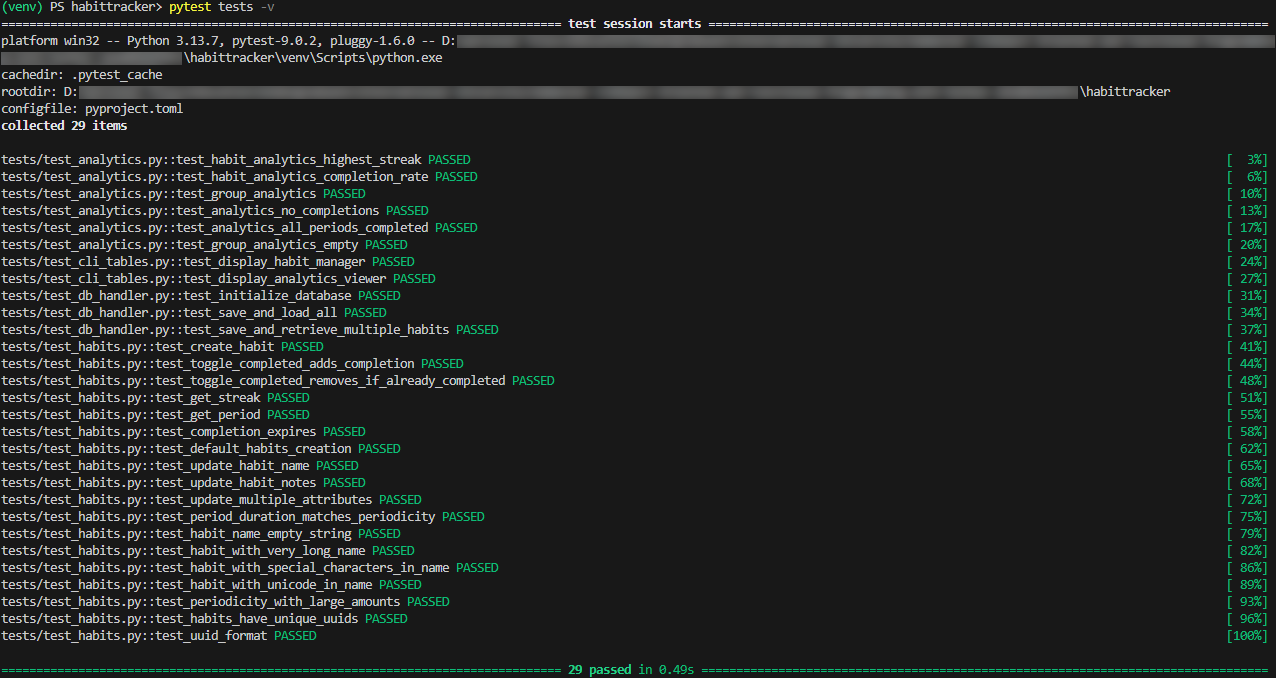
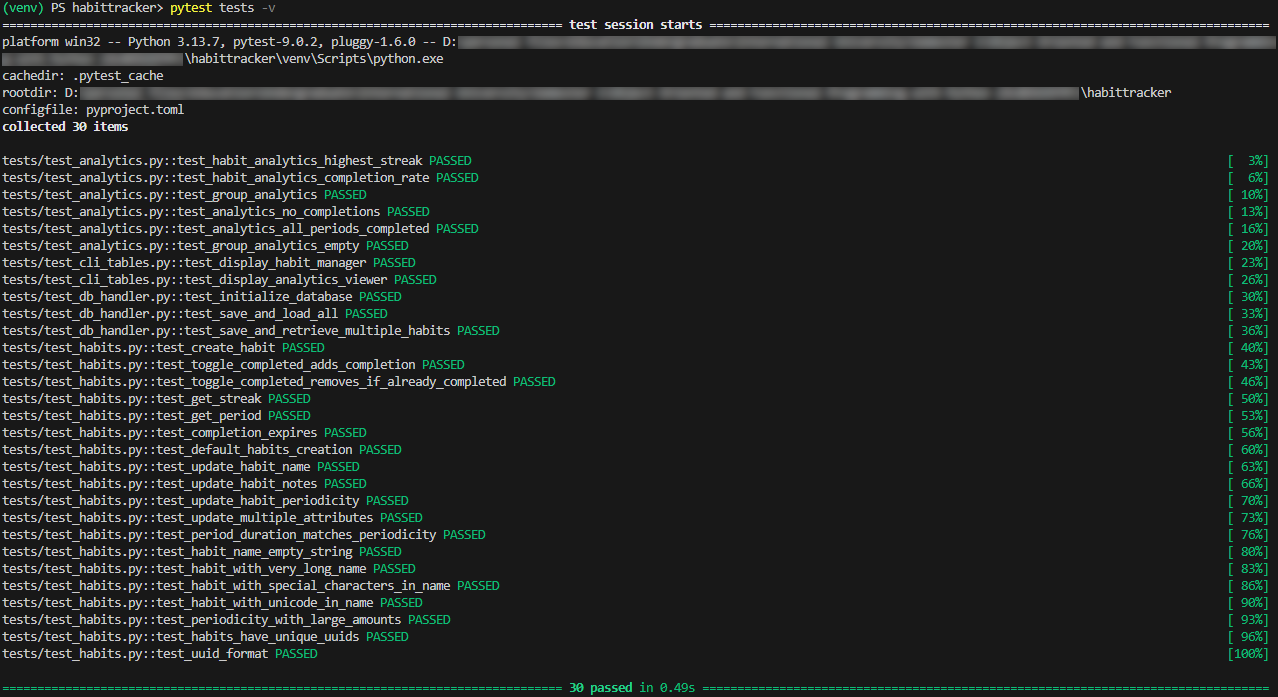
split two tests that were in one function for some reason, fix reload table to preserve page

Changed region(s): [[0.0, 0.0, 1.0, 1.0]]

diff --git a/src/habittracker/cli/habit_table.py b/src/habittracker/cli/habit_table.py
@@ -26,6 +26,7 @@ class HabitTable:
 
     def __init__(self):
         # App setup
+        self.page = 0
         self.kb = KeyBindings()
         self._setup_keybindings()
         self.control = FormattedTextControl(self._render, show_cursor=False)
@@ -47,18 +48,25 @@ class HabitTable:
 
     def _reload_table(self):
         """Reset table"""
+        
+        # Reload data
         self.DATA = (
             habits.HABITS.get_habits(self._FILTER)
             if self._FILTER
             else habits.HABITS.get_habits()
         )
         self.habit_ids = list(self.DATA.keys())
+        # Navigate to page before data
+        max_page = max(math.ceil(len(self.habit_ids) / self._ROWS_PER_PAGE) - 1, 0)
+        self.page = min(self.page, max_page)
+
+        # Reset selection
         self.selected_row = 0
-        self.page = 0
-        self.on_buttons = not (bool(self.DATA))  # start on buttons if no habits
         self.selected_button = 0
         self._action = None
+        self.on_buttons = not (bool(self.DATA))
 
+        # Set action depending on button/row
         if self.on_buttons and self._BUTTONS:
             self._action = self._BUTTONS[self.selected_button]
         elif self._ROW_ACTION:
@@ -70,7 +78,7 @@ class HabitTable:
         @self.kb.add("up")
         def _up(event):
             if not self.habit_ids and not self._BUTTONS:
-                return  # nothing to do
+                return
             max_row = (
                 min(
                     self._ROWS_PER_PAGE,

diff --git a/tests/test_habits.py b/tests/test_habits.py
@@ -116,6 +116,8 @@ def test_update_habit_notes():
     habit.update({"notes": "Updated notes"})
     assert habit.notes == "Updated notes"
     assert habit.name == original_name
+
+def test_update_habit_periodicity():
     """Test updating a habit's periodicity"""
     habit = habits.Habit("test-uuid", "Test", periodicity={"amount": 1, "unit": "days"})
     new_period = {"amount": 2, "unit": "weeks"}

diff --git a/README.md b/README.md
@@ -89,7 +89,7 @@ Then, to interact with the table, you can:
 ## Testing
 
 Core logic is designed to be testable independently of the CLI.
-14 existing unit tests have been made using `pytest`, and can be run as follows:
+30 existing unit tests have been made using `pytest`, and can be run as follows:
 1. Install dev requirements:
     ```ps
     pip install -e .[dev]
